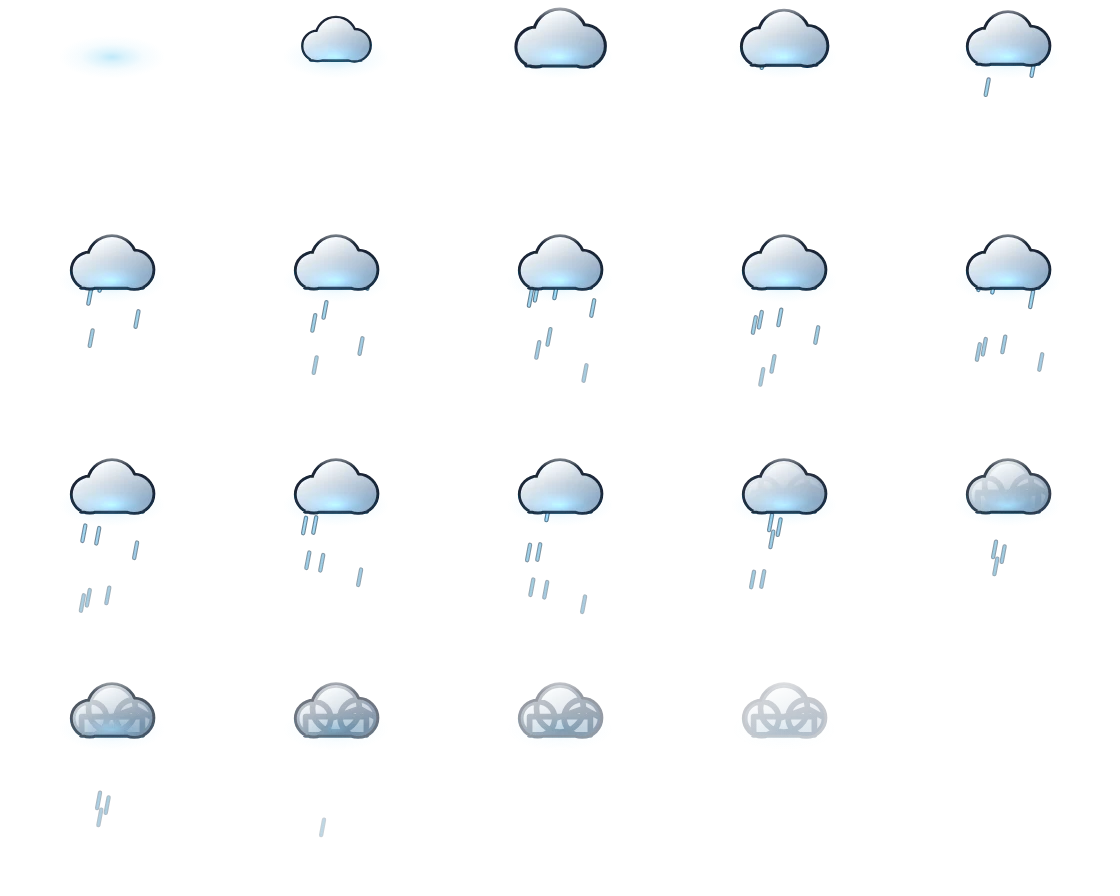
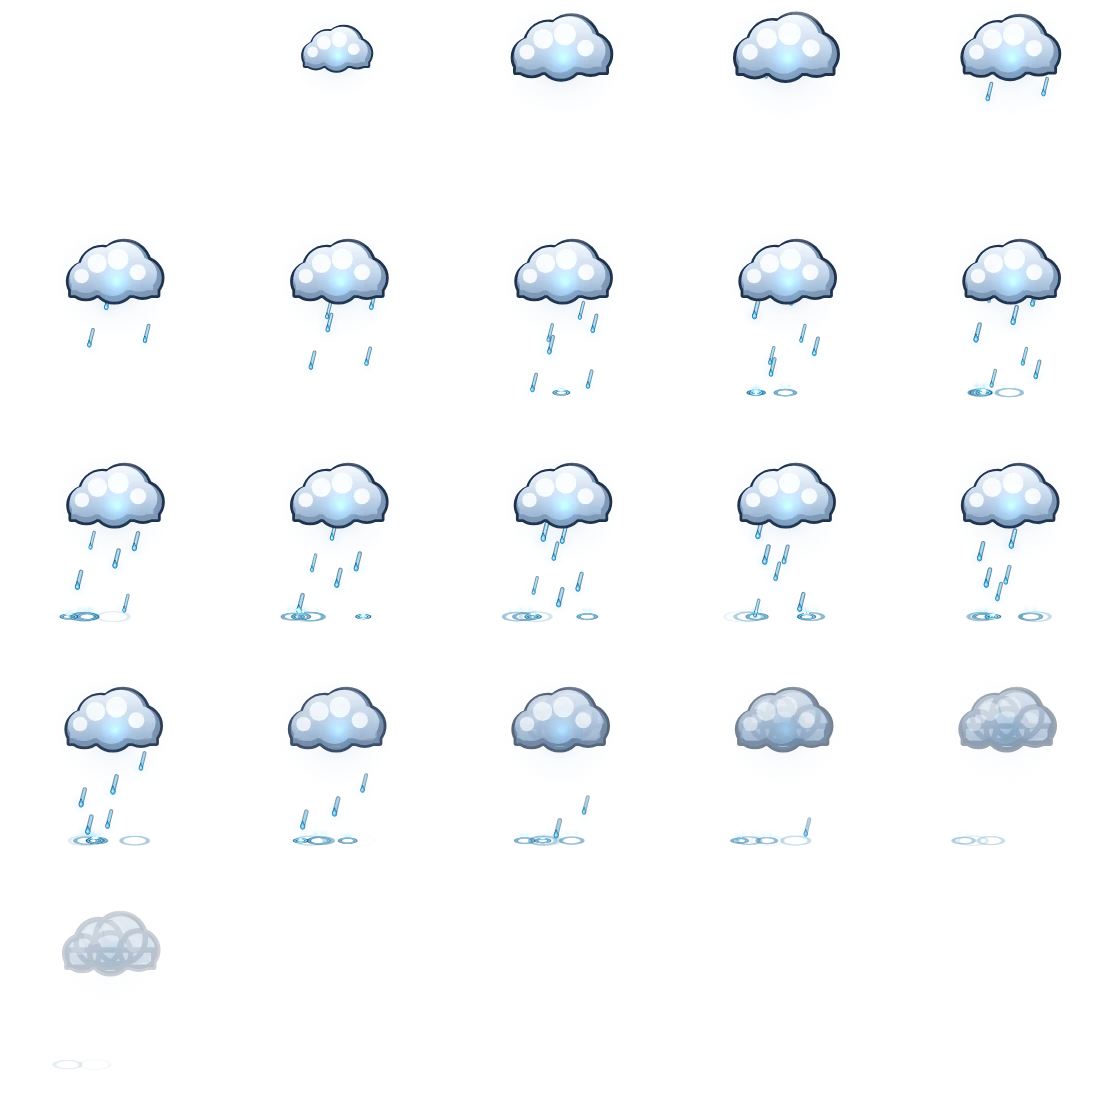
주술사 씻김 · 비구름 이펙트 다시 그림, 연쇄 치유는 튄 순서대로 하나씩 (앞 사람 쪽에서 물살이 날아옴)
Lim 2026-10-16 「주술사 정화, 비구름 이펙트를 좀더 퀄리티 높게 만들어주고, 연쇄는 순차적으로 발동되게 수정해줘. 지금은 이펙트가 동시에 나온다」.
- 씻김: 거품 머금은 굵은 물살 두 가닥 (깊은 물빛 몸 · 밝은 물살 · 흰 거품 가장자리)이 몸을 감싸 솟아 머리 위에서 만나고, 얼룩이 휩쓸려 거품으로 부서진 뒤 왕관 물보라
- 비구름: 그늘 · 몸 · 하이라이트 세 겹 몽실 구름, 비스듬한 물방울 비, 발밑 작은 물결 · 물보라
- 연쇄 치유: 엔진은 그대로 한 틱에 회복, 판은 튄 순서대로 0.16초씩 늦춰 이펙트 · 치유 숫자 · 칸 반짝임 (battle/index.ts CHAIN_STEP_MS), 물살 그림을 앞 사람 (첫 대상은 나) 쪽으로 돌려 그림 (Fx.rot)
- 도구: waterRibbon · bubble, fx:shot --hero가 저장의 직업을 바꿈

diff --git a/src/battle/board.ts b/src/battle/board.ts
@@ -765,6 +765,8 @@ interface Fx {
   kind: 'heal' | 'hit' | 'dispel' | 'death' | 'revive' | 'art' | 'pxf'; id: number; t0: number; crit?: boolean; color?: number; seeds?: number[]; x?: number; y?: number;
   /** PXF 이펙트 (kind 'pxf', battle/pxf.ts). tag = 판 기록 열쇠 앞머리 (전투 공통 효과는 예전 그림과 같은 heal · death …, 없으면 pxf), color = 회색 그림에 곱할 색 */
   pxf?: PxfKey; tag?: string;
+  /** 이펙트를 돌려 그림 (라디안): 연쇄 치유 물줄기가 앞 사람 쪽에서 들어오게 */
+  rot?: number;
   /** 치유 빛 없이 숫자 · 치명타 별만 (그 칸에 스킬 PXF 이펙트가 나올 때) */
   plain?: boolean;
   /** 기믹 연출 (kind 'art'): 그림 fx-<name>, 칸 · 날아갈 사람 · 판 전체 · 길이(ms) */
@@ -1037,7 +1039,7 @@ function landFx(F: NonNullable<typeof B.F>, name: string, tl: Telegraph, now: nu
   for (const row of rows.values()) fxGim(name, now, { row });
 }
 const rnd = () => Math.random();
-/** plain = 이 칸에 스킬 PXF 이펙트가 나와서 치유 빛은 안 그림 (숫자 · 치명타 별은 그대로) */
+/** plain = 이 칸에 스킬 PXF 이펙트가 나와서 치유 빛은 안 그림 (숫자 · 치명타 별은 그대로). now가 지금보다 뒤면 그때 뜸 (연쇄 치유) */
 export function fxHeal(u: Unit, eff: number, amt: number, crit: boolean, now: number, plain = false): void {
   if (!L.ok || S.reducedEffects) return;
   const over = eff < amt * 0.25; // 거의 다 넘친 힐은 회색으로 작게
@@ -1063,7 +1065,7 @@ export function fxPxfCell(cell: number, pxf: PxfKey, now: number): boolean {
   B2.fx.push({ kind: 'pxf', id: -1, t0: now, pxf, dur: pxfMs(PXF[pxf]), x: p.x, y: p.y, tag: `cell${cell}-` });
   return true;
 }
-export function fxPxf(u: Unit, pxf: PxfKey, now: number, o: { color?: number; tag?: string; x?: number; y?: number } = {}): boolean {
+export function fxPxf(u: Unit, pxf: PxfKey, now: number, o: { color?: number; tag?: string; x?: number; y?: number; rot?: number } = {}): boolean {
   if (!L.ok || S.reducedEffects || B2.fx.length >= 100) return false;
   if (!pxfReady(pxf)) return false;
   B2.fx.push({ kind: 'pxf', id: u.id, t0: now, pxf, dur: pxfMs(PXF[pxf]), ...o });
@@ -1198,13 +1200,13 @@ function predictedHeal(u: Unit): number {
  * 층: 모두 판 맨 위 (pxfL, 이름 · 체력 · 말풍선 위, Lim 「파티원에서 최상단으로」). 회색 그림은 tint 색을 곱함.
  * 손그림풍이라 부드럽게 늘림. 더하기 섞기는 WebGL에서만 (Canvas에서는 뒤에 그리는 것까지 번져서 보통 섞기)
  */
-function pxfFx(k: PxfKey, key: string, x: number, y: number, r: number, ms: number, tint = 0xffffff): void {
+function pxfFx(k: PxfKey, key: string, x: number, y: number, r: number, ms: number, tint = 0xffffff, rot = 0): void {
   const c = PXF[k], i = pxfFrame(c, ms), tex = i < 0 ? null : smoothFrame(k, i);
   if (!tex) return;
   if (tex.source.scaleMode !== 'linear') tex.source.scaleMode = 'linear';
   const size = pxfDrawSize(c, r * 2), half = safeRadius(x, y, size / 2, 'circle');
   if (half <= 0) return;
-  pxfArt.put(tex, x, y, half * 2, half * 2, 1, c.gray ? tint : 0xffffff, 0, c.blend === 'add' && app?.renderer.name !== 'canvas' ? 'add' : 'normal');
+  pxfArt.put(tex, x, y, half * 2, half * 2, 1, c.gray ? tint : 0xffffff, rot, c.blend === 'add' && app?.renderer.name !== 'canvas' ? 'add' : 'normal');
   recordBound(key, 'fx', 'circle', x, y, half * 2, half * 2, { diameter: half * 2, requestedDiameter: size, frame: i, tint: c.gray ? tint : undefined });
 }
 /** 손그림풍 스킬 이펙트 (격자 띠)의 프레임 i: 부드럽게 늘리므로 옆 프레임이 번져 들지 않게 반 픽셀 안쪽만 씀 */
@@ -1622,7 +1624,7 @@ export function render(now: number): void {
     if (e.kind === 'pxf') {
       if (e.wide) { pxfWide(e.pxf!, `pxf-${e.pxf}-${e.t0}`, now - e.t0, e.color); continue; }
       const u = F.party.find(x => x.id === e.id), p = e.x != null ? { x: e.x, y: e.y! } : u ? unitPos(u) : null;
-      if (p) pxfFx(e.pxf!, e.tag ? `${e.tag}${e.id}-${e.t0}` : `pxf${e.id}-${e.pxf}-${e.t0}`, p.x, p.y, r, now - e.t0, e.color);
+      if (p) pxfFx(e.pxf!, e.tag ? `${e.tag}${e.id}-${e.t0}` : `pxf${e.id}-${e.pxf}-${e.t0}`, p.x, p.y, r, now - e.t0, e.color, e.rot);
       continue;
     }
     const k = (now - e.t0) / FX_MS;
@@ -2029,6 +2031,7 @@ export function render(now: number): void {
   const floatGone = new Set<Float>();
   for (const fl of B2.floats) {
     floatLast.delete(fl);
+    if (now < fl.t0) continue; // 아직 안 뜬 숫자 (연쇄 치유가 차례로 튐)
     const u = F.party.find(q => q.id === fl.id);
     if (!u) { floatGone.add(fl); continue; }
     const base = unitPos(u), k = (now - fl.t0) / 900, rise = S.reducedEffects ? 0 : k * s * (fl.label ? 0.3 : 0.6);

diff --git a/src/battle/index.ts b/src/battle/index.ts
@@ -532,22 +532,39 @@ cv.addEventListener('lostpointercapture', e => endPointer(true, e));
 cv.addEventListener('contextmenu', e => e.preventDefault());
 
 // ---------- 전투 사건 → 소리·진동·알림·판 효과 ----------
+/** 연쇄 치유가 다음 사람에게 튀어 보이는 간격 (ms): 이펙트에서 물줄기가 닿는 데 4장 (0.17초) */
+const CHAIN_STEP_MS = 160;
 function handleEvents(now: number): void {
   const F = B.F!;
   let healSnd = false, critSnd = false;
   // 스킬 PXF 이펙트 (battle/pxf.ts): 들어간 휠 스킬마다 대상 · 범위 · 파티 칸에. 그 칸의 이번 치유는 치유 빛 없이
   const plain = new Set<number>();
+  // 연쇄 치유 (Lim 2026-10-16 「연쇄는 순차적으로 발동되게, 지금은 이펙트가 동시에 나온다」): 엔진은 한 틱에 모두 회복하지만
+  // 판에서는 튄 순서대로 (첫 대상 → 튄 사람) CHAIN_STEP_MS씩 늦춰 이펙트 · 치유 숫자가 하나씩 이어서 터지게.
+  // 물줄기는 앞 사람 (첫 대상은 나) 쪽에서 들어오게 돌려 그림 (이펙트 그림은 왼쪽에서 들어옴)
+  const later = new Map<number, number>();
+  let chained = 0, chainFrom: number = F.me.cell;
   for (const { key, uid, cell } of F.used?.splice(0) ?? []) {
     const fx = SKILL_PXF[key]?.fx;
     if (fx && cell != null) { fxPxfCell(cell, fx, now); continue; } // 사람 없는 칸에 세운 판 위 물건 (79 6-1)
-    if (fx) for (const v of pxfTargets(F, key, uid)) if (fxPxf(v, fx, now)) plain.add(v.id); // 못 그리면 공통 치유 빛 · 해제 빛을 대신
+    let wait = 0, rot: number | undefined;
+    if (key === 'chainHeal') {
+      const v = F.party.find(x => x.id === uid);
+      wait = CHAIN_STEP_MS * chained++;
+      if (v) {
+        const a = screenCenter(chainFrom), b = screenCenter(v.cell);
+        rot = v.cell === chainFrom ? -Math.PI / 2 - Math.PI : Math.atan2(a.y - b.y, a.x - b.x) - Math.PI; // 내가 첫 대상이면 위에서
+        chainFrom = v.cell;
+      }
+    }
+    if (fx) for (const v of pxfTargets(F, key, uid)) if (fxPxf(v, fx, now + wait, rot != null ? { rot } : undefined)) { plain.add(v.id); if (wait) later.set(v.id, wait); } // 못 그리면 공통 치유 빛 · 해제 빛을 대신
   }
   for (const ev of F.events) {
     const u = 'id' in ev ? F.party.find(x => x.id === ev.id) ?? F.souls.find(x => x.id === ev.id) : undefined;
     switch (ev.type) {
       case 'heal': {
         if (!u) break;
-        fxHeal(u, ev.eff, ev.amt, ev.crit, now, !ev.item && plain.has(ev.id));
+        fxHeal(u, ev.eff, ev.amt, ev.crit, now + (ev.item ? 0 : later.get(ev.id) ?? 0), !ev.item && plain.has(ev.id));
         if (ev.crit) critSnd = true; else healSnd = true;
         break;
       }

diff --git a/src/battle/pxf.ts b/src/battle/pxf.ts
@@ -82,10 +82,10 @@ export const PXF = {
   'paladin-hand-guard': skill(24, 94),
   'shaman-ripple': skill(20, 88),
   'shaman-droplet': skill(20, 88),
-  'shaman-washing': skill(20, 92),
-  'shaman-chain': skill(16, 96),
+  'shaman-washing': skill(22, 96),
+  'shaman-chain': skill(16, 100),
   'shaman-earth': skill(22, 94),
-  'shaman-rain': skill(20, 72),
+  'shaman-rain': skill(22, 76),
   'shaman-link': skill(22, 84),
   'monk-palm': skill(14, 86),
   'monk-wrap': skill(22, 92),
